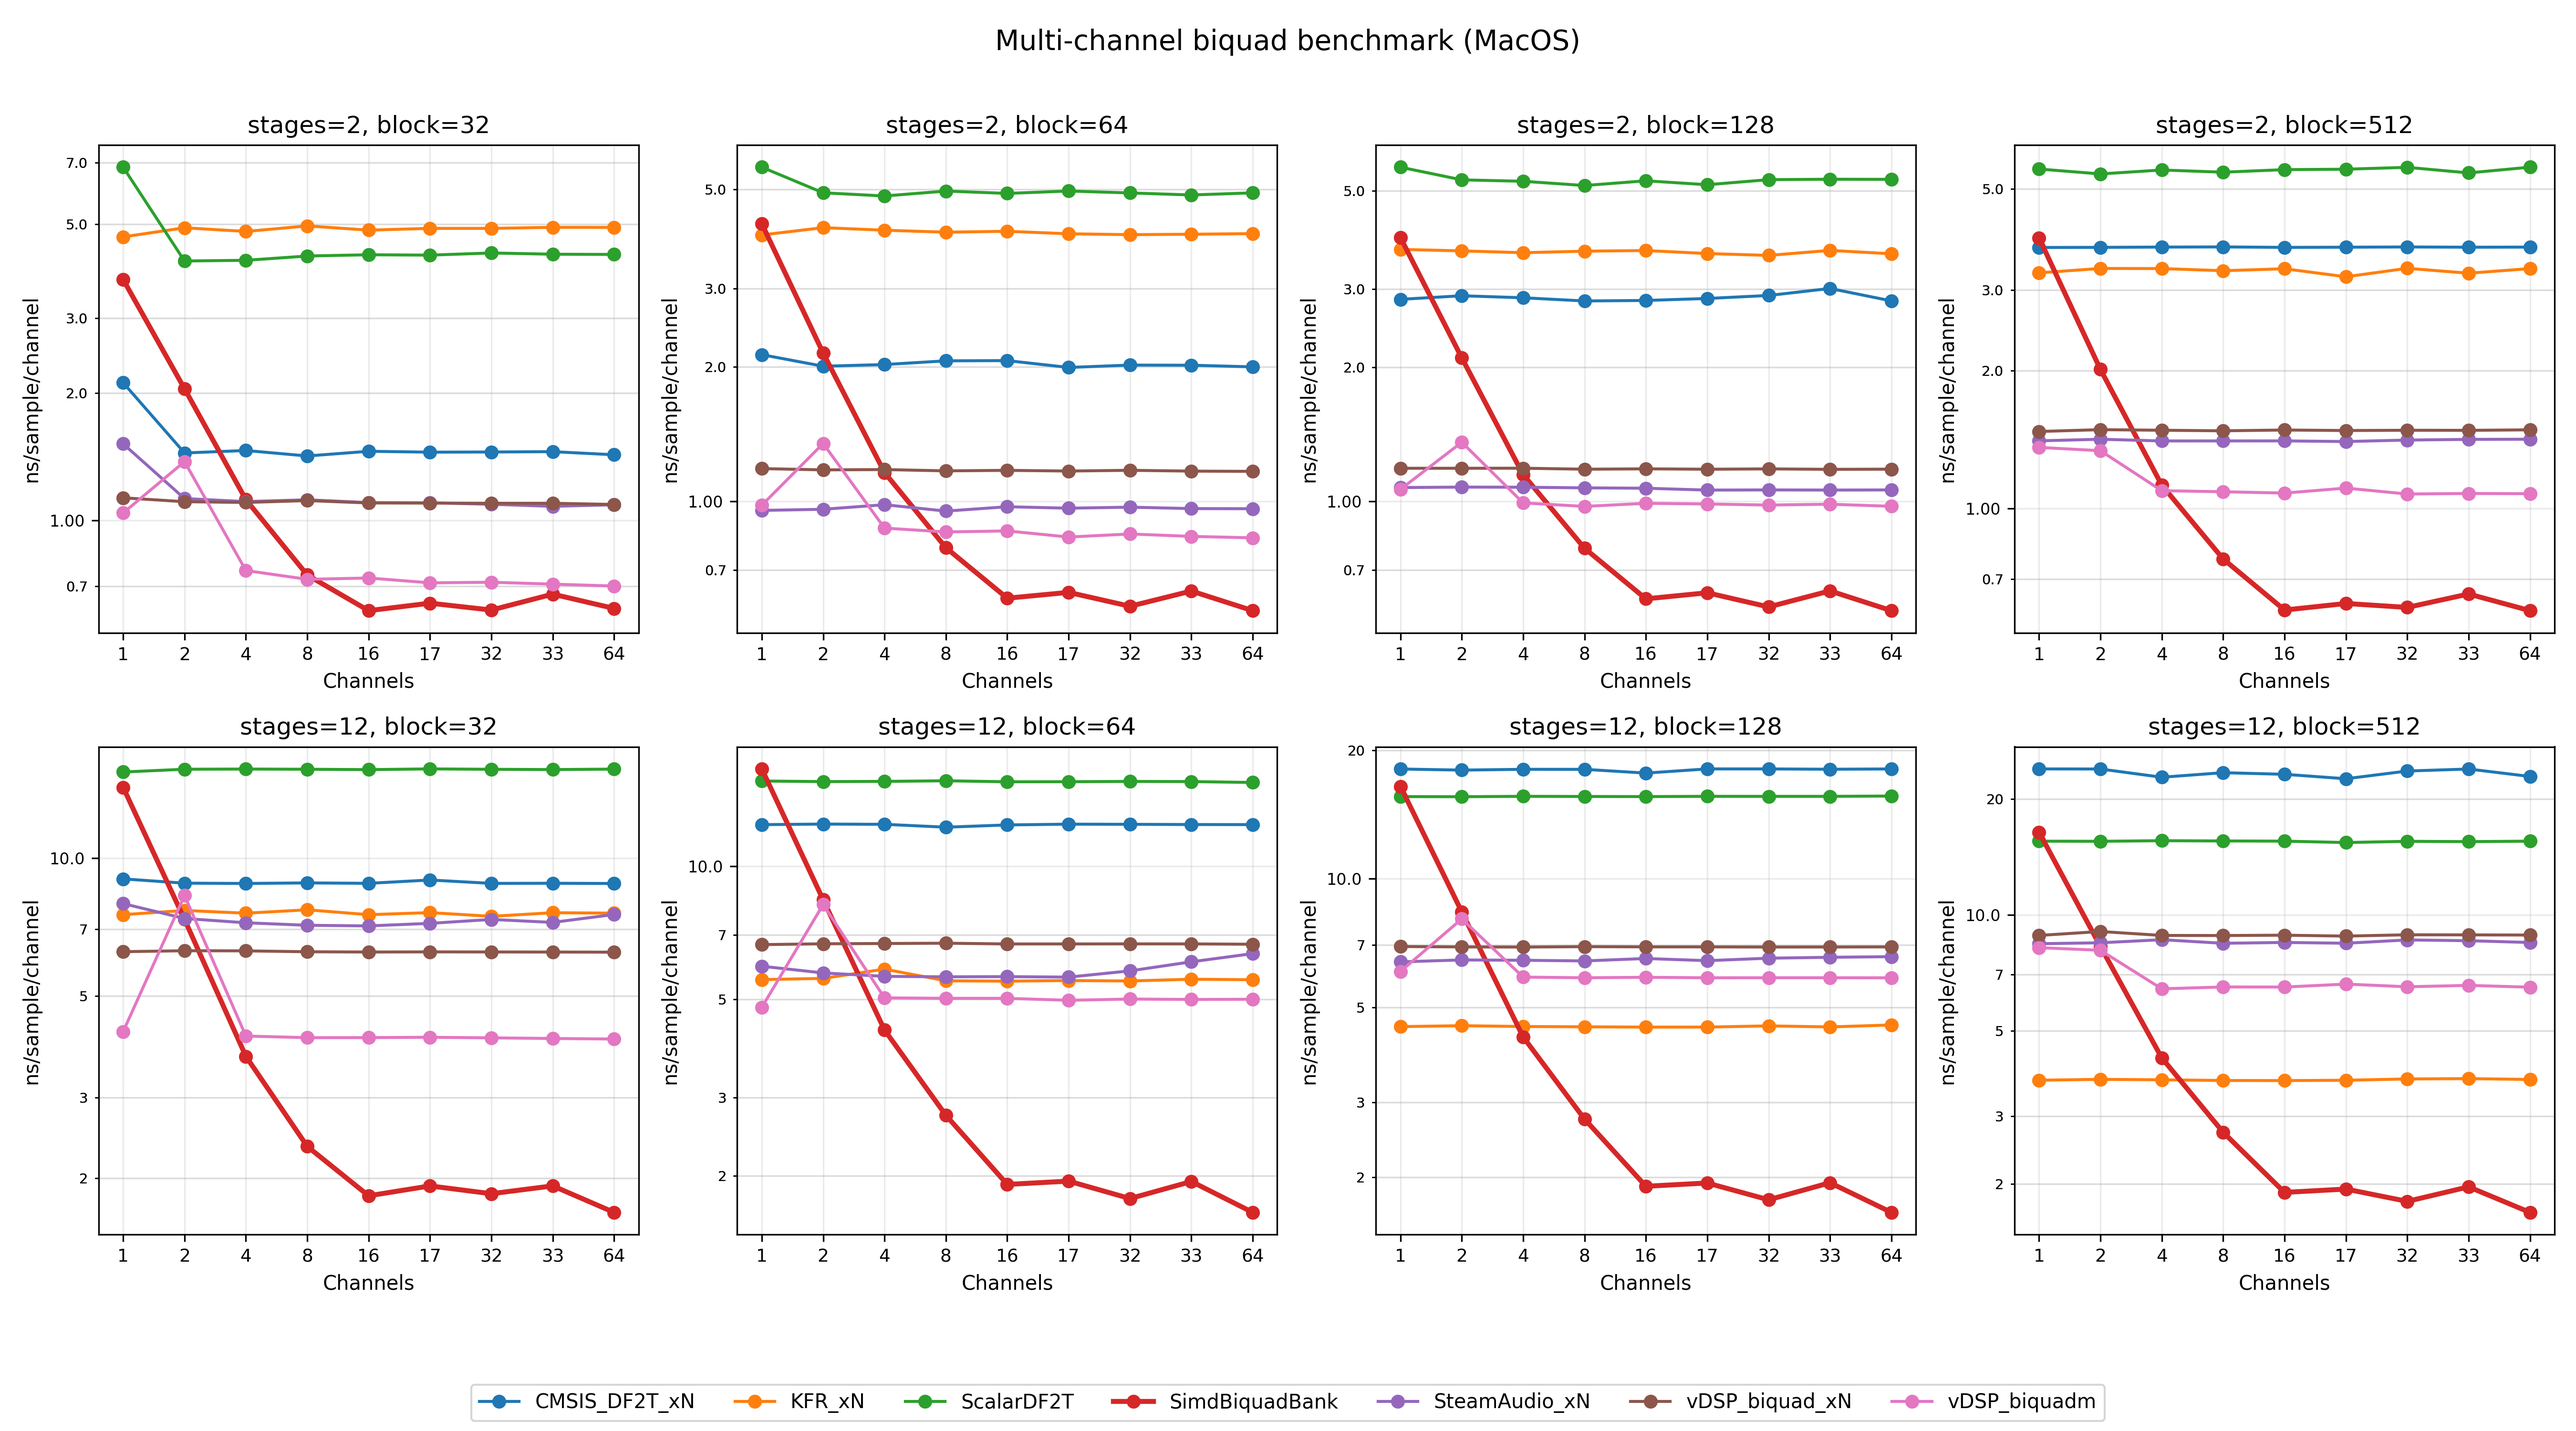
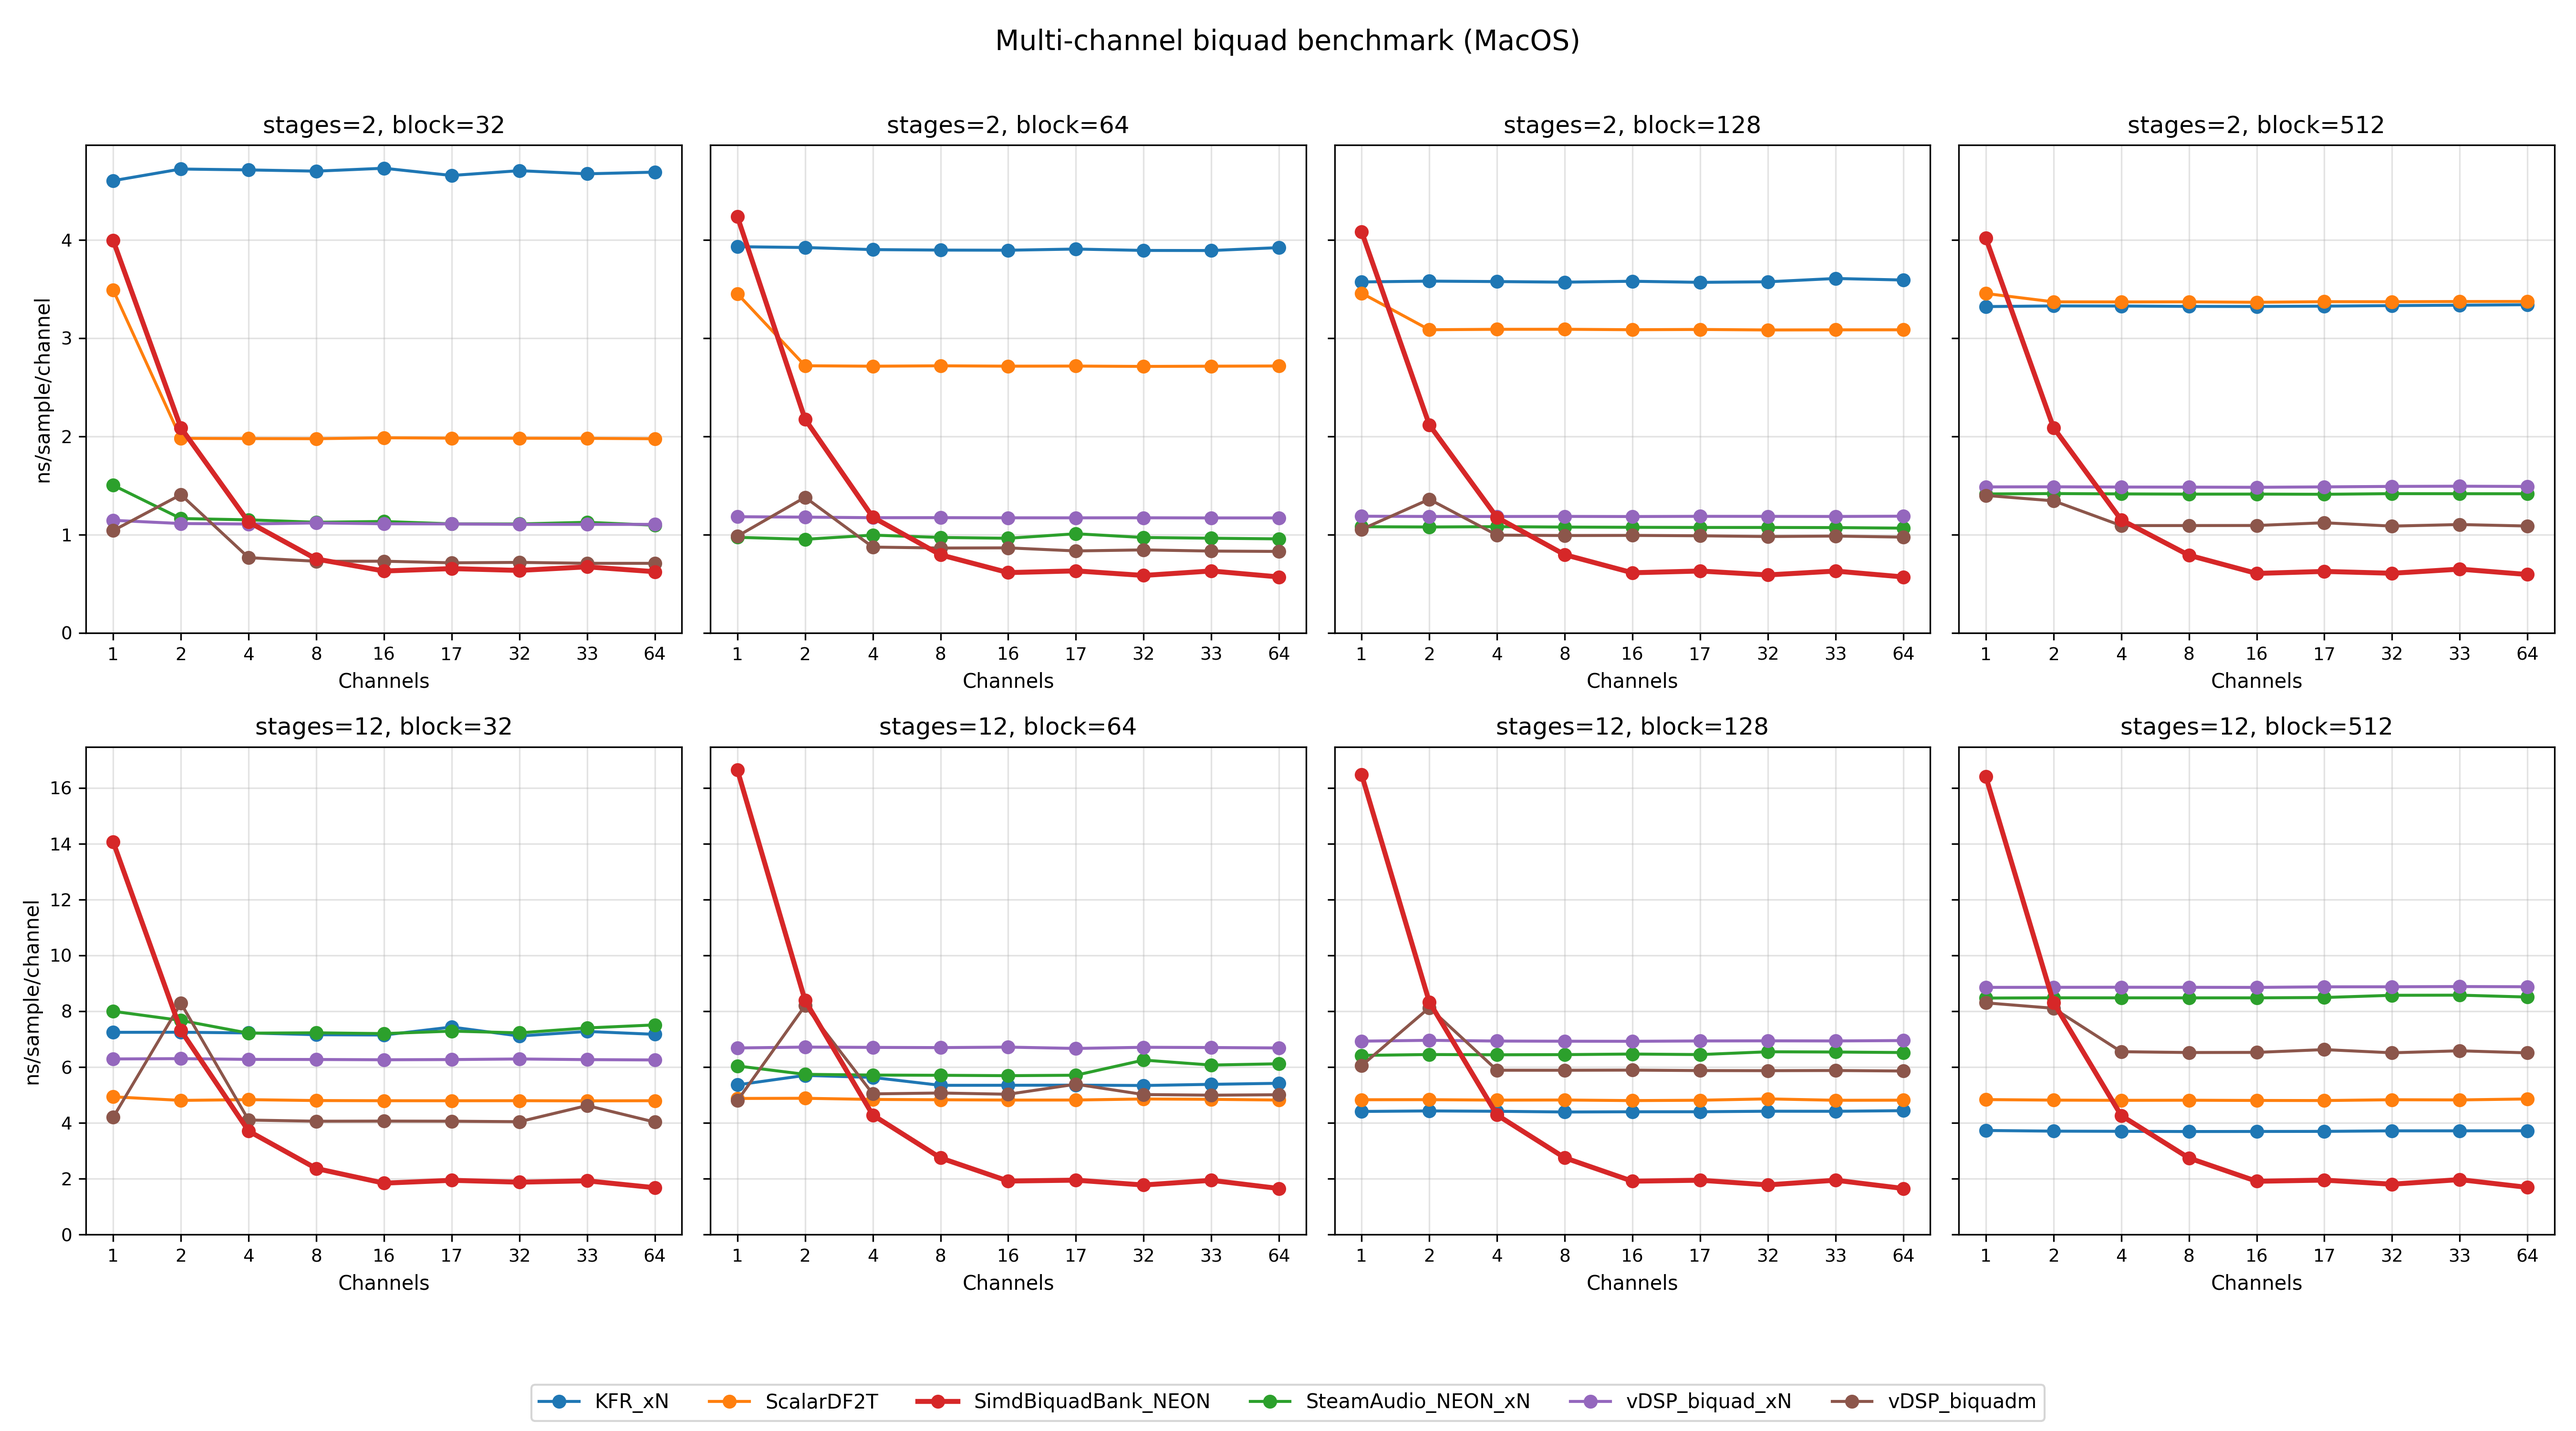
Fix multichannel plot axis

diff --git a/plot_multichannel.py b/plot_multichannel.py
@@ -7,7 +7,7 @@ import matplotlib
 
 matplotlib.use("Agg")
 import matplotlib.pyplot as plt
-from matplotlib.ticker import LogLocator, ScalarFormatter
+from matplotlib.ticker import LogLocator, NullFormatter, ScalarFormatter
 
 
 def platform_name(platform):
@@ -78,44 +78,96 @@ def print_ascii_tables(results_by_combo):
         print()
 
 
+# The bank is the subject of the benchmark, so it gets a reserved colour and a heavier line.
+# Everything else draws from a palette with that colour removed. Leaving the bank on the default
+# cycle meant its colour shifted whenever the backend set changed (a backend being removed, or IPP
+# and the SSE/AVX variants existing only on x86), which made the per-platform plots inconsistent.
+BANK_COLOUR = "#d62728"
+OTHER_COLOURS = [
+    "#1f77b4", "#ff7f0e", "#2ca02c", "#9467bd", "#8c564b",
+    "#e377c2", "#7f7f7f", "#bcbd22", "#17becf",
+]
+
+
+def backend_colours(backend_names):
+    """Assigns a stable colour per backend, reserving BANK_COLOUR for the bank variants."""
+    colours = {}
+    index = 0
+    for name in backend_names:
+        if name.startswith("SimdBiquadBank"):
+            colours[name] = BANK_COLOUR
+        else:
+            colours[name] = OTHER_COLOURS[index % len(OTHER_COLOURS)]
+            index += 1
+    return colours
+
+
 def plot_multichannel(results_by_combo, output_path):
     keys = sorted(results_by_combo)
-    fig, axes = plt.subplots(2, 4, figsize=(18, 10), squeeze=False)
+    # Rows share a y-axis: within a row only the block size changes, so a common scale makes the
+    # four panels directly comparable and gives every panel the same tick values. Without this,
+    # each panel picked its own range and its own irregular ticks, which made the axis hard to
+    # read and left it ambiguous whether the scale was linear or logarithmic.
+    fig, axes = plt.subplots(2, 4, figsize=(18, 10), squeeze=False, sharey="row")
     fig.suptitle(f"Multi-channel biquad benchmark ({platform_name(sys.platform)})", fontsize=14)
 
     for index, key in enumerate(keys):
         stages, block = key
-        ax = axes[index // 4, index % 4]
+        row, column = index // 4, index % 4
+        ax = axes[row, column]
         backend_data = results_by_combo[key]
         channel_counts = sorted({channel for backend in backend_data.values() for channel in backend})
         positions = list(range(len(channel_counts)))
 
+        colours = backend_colours(sorted(backend_data))
         for backend, values_by_channel in sorted(backend_data.items()):
             values = [values_by_channel[channel] for channel in channel_counts]
-            linewidth = 2.5 if backend.startswith("SimdBiquadBank") else 1.5
-            ax.plot(positions, values, label=backend, marker="o", linewidth=linewidth)
+            is_bank = backend.startswith("SimdBiquadBank")
+            # The bank is the subject of the benchmark, so it keeps a fixed colour and a heavier
+            # line. Leaving it on the default cycle meant its colour changed whenever the set of
+            # backends changed (removing one, or IPP and the SSE/AVX variants only existing on
+            # x86), which made the per-platform plots inconsistent with each other.
+            ax.plot(
+                positions,
+                values,
+                label=backend,
+                marker="o",
+                linewidth=2.5 if is_bank else 1.5,
+                color=colours[backend],
+                zorder=3 if is_bank else 2)
 
         ax.set_title(f"stages={stages}, block={block}")
-        ax.grid(True, which="both", alpha=0.25)
-        ax.set_yscale("log")
-        ax.yaxis.set_major_locator(LogLocator(base=10.0, subs=(1.0,), numticks=12))
-        ax.yaxis.set_minor_locator(LogLocator(base=10.0, subs=(0.2, 0.3, 0.5, 0.7, 2.0, 3.0, 5.0, 7.0), numticks=12))
-        major_fmt = ScalarFormatter()
-        major_fmt.set_scientific(False)
-        minor_fmt = ScalarFormatter()
-        minor_fmt.set_scientific(False)
-        ax.yaxis.set_major_formatter(major_fmt)
-        ax.yaxis.set_minor_formatter(minor_fmt)
+
+        ax.grid(True, which="major", alpha=0.35)
+
         ax.set_xlabel("Channels")
-        ax.set_ylabel("ns/sample/channel")
+        if column == 0:
+            ax.set_ylabel("ns/sample/channel")
         ax.set_xticks(positions)
         ax.set_xticklabels([str(c) for c in channel_counts])
         ax.tick_params(axis="x", labelbottom=True, labelsize=9)
-        ax.tick_params(axis="y", which="major", labelsize=8)
-        ax.tick_params(axis="y", which="minor", labelsize=7)
+        ax.tick_params(axis="y", which="major", labelsize=9)
 
+    # Rows share a y-axis, so the limit has to come from the whole row. Setting it per-axis
+    # clipped the tallest series: the row limit ended up driven by whichever panel was drawn
+    # first, hiding SimdBiquadBank's single-channel point in the other panels.
+    for row in range(axes.shape[0]):
+        row_keys = [k for i, k in enumerate(keys) if i // 4 == row]
+        if not row_keys:
+            continue
+        row_max = max(
+            value
+            for key in row_keys
+            for backend in results_by_combo[key].values()
+            for value in backend.values()
+        )
+        axes[row, 0].set_ylim(0, row_max * 1.05)
+
+    # Backend count varies by platform and build (for example IPP only on x86, and separate
+    # SSE/AVX compilations of the bank), so the legend width is derived rather than hard-coded.
     handles, labels = axes[0, 0].get_legend_handles_labels()
-    fig.legend(handles, labels, loc="lower center", ncol=7, frameon=True)
+    ncol = min(len(labels), 7) if labels else 1
+    fig.legend(handles, labels, loc="lower center", ncol=ncol, frameon=True)
     fig.tight_layout(rect=(0, 0.08, 1, 0.97))
     fig.savefig(output_path, dpi=300)
     plt.close(fig)

diff --git a/src/mc_main.cpp b/src/mc_main.cpp
@@ -1,7 +1,6 @@
 #include "filter_coeffs.h"
 #include "multichannel_filter.h"
 
-#include "mc_cmsis.h"
 #include "mc_kfr.h"
 #include "mc_scalar.h"
 #include "mc_simd_bank_variants.h"
@@ -50,7 +49,6 @@ std::vector<std::unique_ptr<MultiChannelFilter>> MakeBackends()
         backends.push_back(std::move(bank));
     }
     backends.push_back(std::make_unique<McKfr>());
-    backends.push_back(std::make_unique<McCmsis>());
     backends.push_back(std::make_unique<McSteamAudio>());
 #ifdef MC_HAS_IPP
     backends.push_back(std::make_unique<McIpp>());

diff --git a/src/mc_check.cpp b/src/mc_check.cpp
@@ -3,7 +3,6 @@
 
 #include "multichannel_filter.h"
 
-#include "mc_cmsis.h"
 #include "mc_kfr.h"
 #include "mc_scalar.h"
 #include "mc_simd_bank_variants.h"
@@ -50,7 +49,6 @@ std::vector<std::unique_ptr<MultiChannelFilter>> MakeBackends()
         backends.push_back(std::move(bank));
     }
     backends.push_back(std::make_unique<McKfr>());
-    backends.push_back(std::make_unique<McCmsis>());
     backends.push_back(std::make_unique<McSteamAudio>());
 #ifdef MC_HAS_IPP
     backends.push_back(std::make_unique<McIpp>());

diff --git a/readme.md b/readme.md
@@ -87,7 +87,7 @@ The results are mostly linear, as expected. One interesting thing to notice is t
 
 ### What is being compared
 
-The multi-channel benchmark compares a bank that vectorizes across channels (`SimdBiquadBank`, built once per SIMD width) against single-channel libraries instantiated N times (`ScalarDF2T`, `KFR_xN`, `CMSIS_DF2T_xN`, `SteamAudio_<kernel>_xN`, `IPP_xN`, `vDSP_biquad_xN`), plus `vDSP_biquadm`, which is the only other backend here that vectorizes across the channel dimension rather than filtering each channel independently.
+The multi-channel benchmark compares a bank that vectorizes across channels (`SimdBiquadBank`, built once per SIMD width) against single-channel libraries instantiated N times (`ScalarDF2T`, `KFR_xN`, `SteamAudio_<kernel>_xN`, `IPP_xN`, `vDSP_biquad_xN`), plus `vDSP_biquadm`, which is the only other backend here that vectorizes across the channel dimension rather than filtering each channel independently.
 
 Backends that have more than one kernel say which one produced the numbers. `SimdBiquadBank_SSE` / `SimdBiquadBank_AVX` are separate compilations, whereas SteamAudio picks its width at run time, so `SteamAudio_AVX_xN` reflects what `gSIMDLevel()` actually selected on the machine that produced the plot.
 
